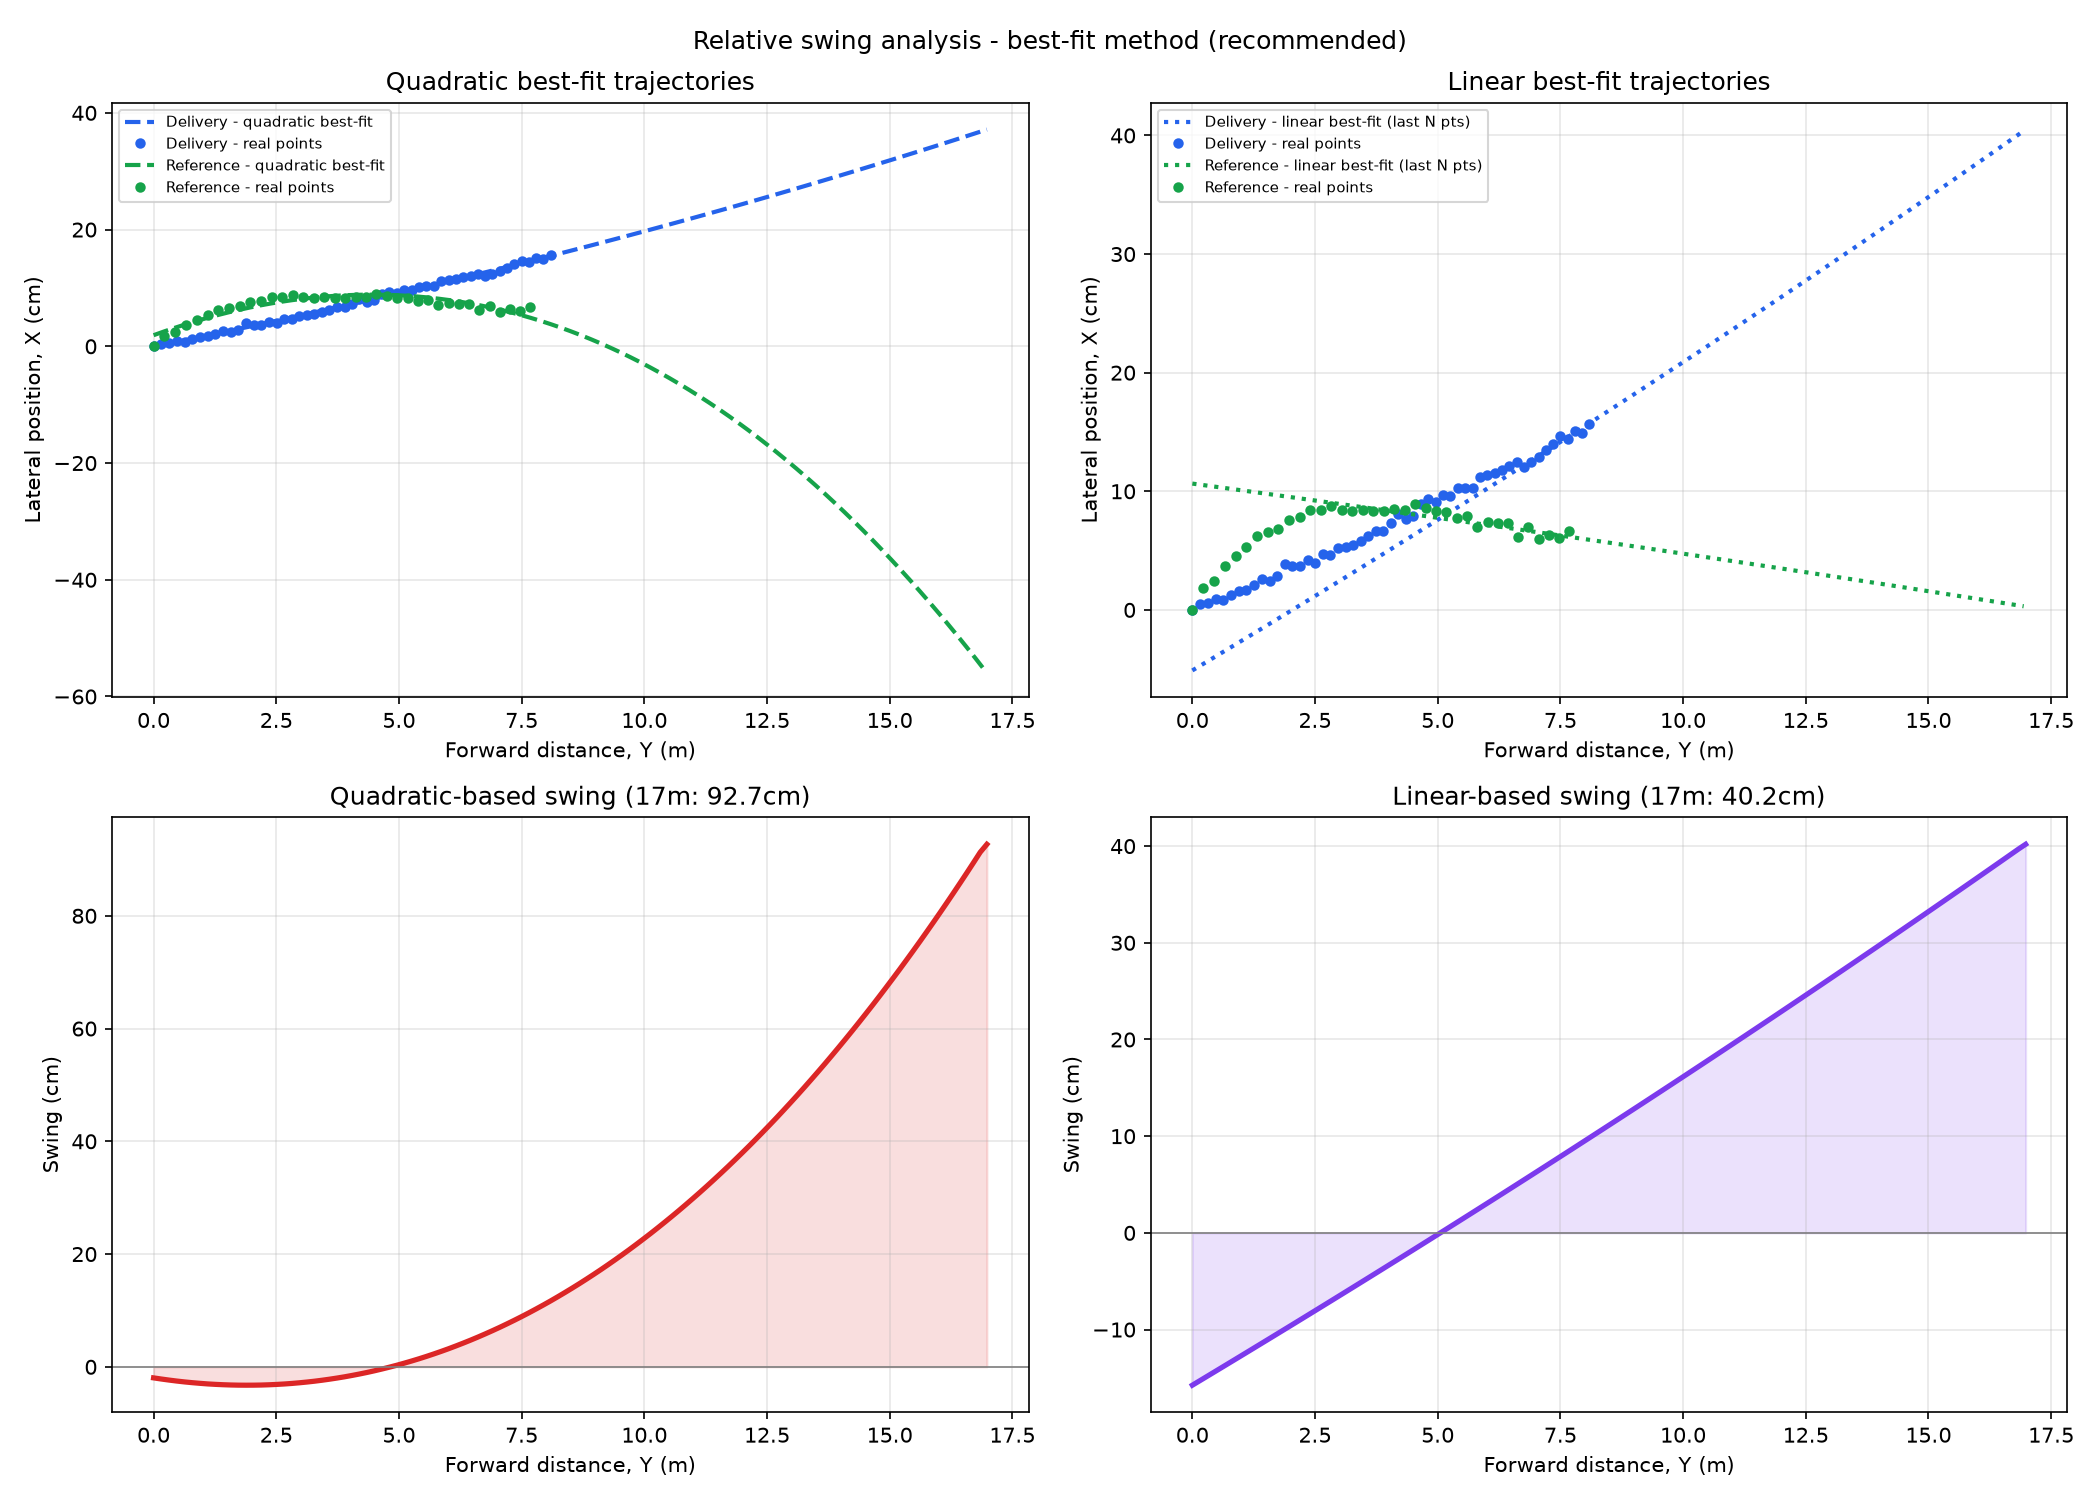
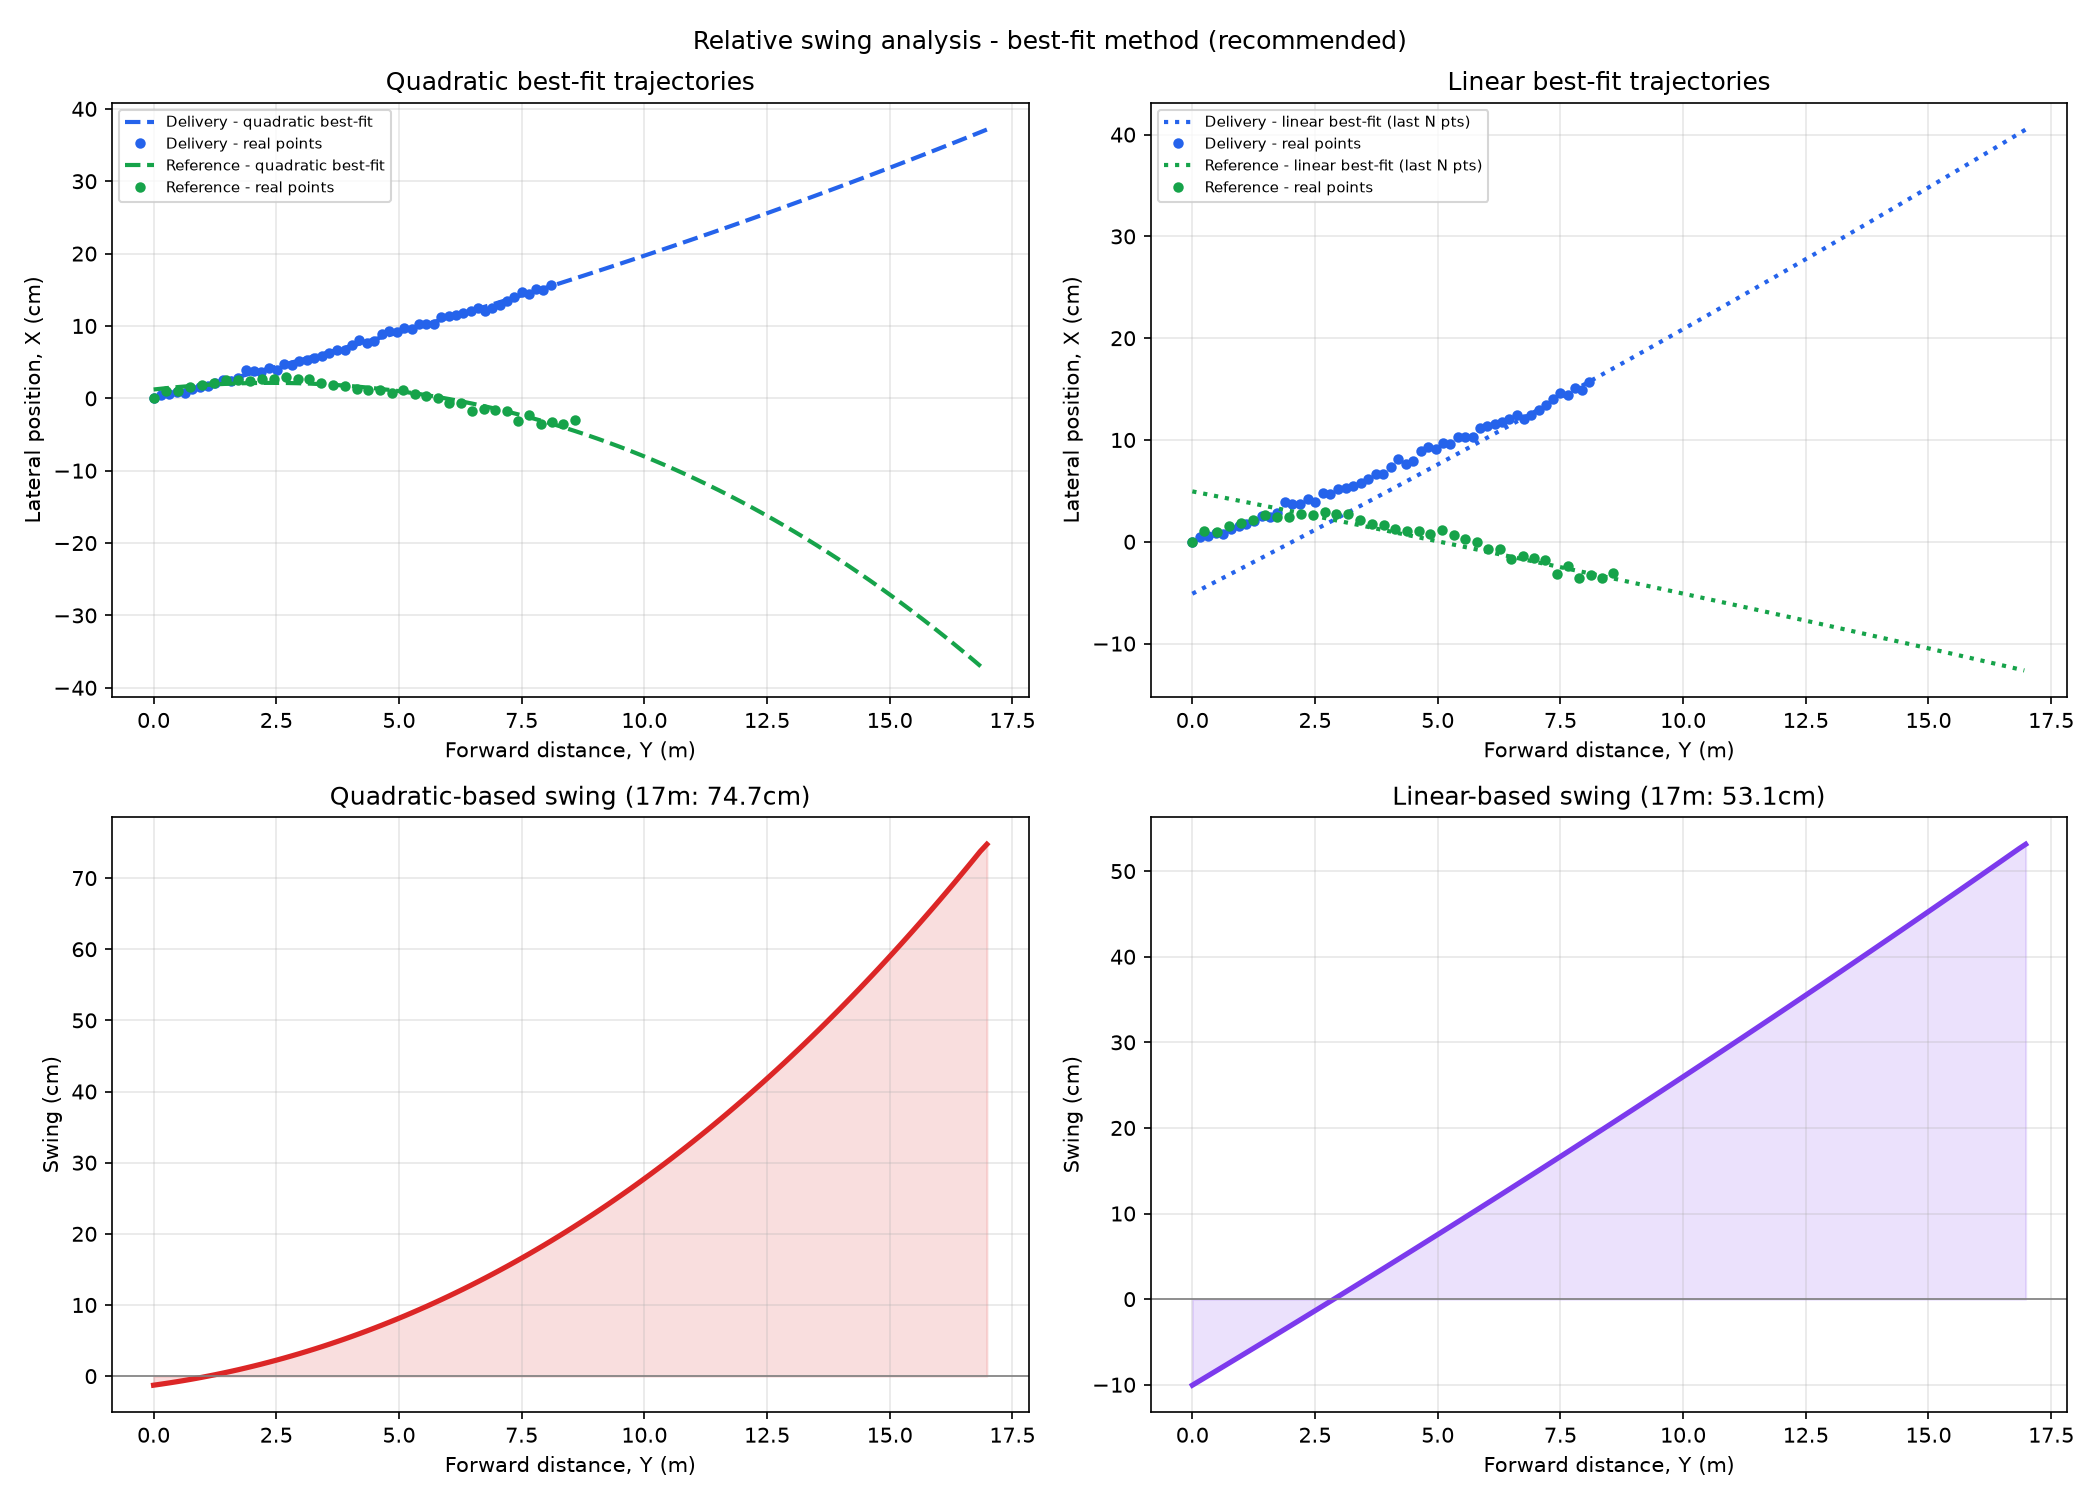
add custom starting frames

diff --git a/display.py b/display.py
@@ -21,7 +21,17 @@ class Display:
             raise ValueError("No top down view video path provided.")
 
         rel_path = os.path.relpath(abs_path, os.path.dirname(__file__))
-        return Video(rel_path)
+
+        start_frame_str = input("Enter the starting frame number for the main video (default 0): ")
+        if start_frame_str.strip() == "":
+            start_frame = 0
+        else:
+            start_frame = int(start_frame_str)
+
+        video = Video(rel_path)
+        video.current_frame = start_frame
+
+        return video
 
     def load_side_video(self) -> Video:
         print("Please select the side view video file (side view).")
@@ -39,4 +49,14 @@ class Display:
             raise ValueError("No side on view video path provided.")
 
         rel_path = os.path.relpath(abs_path, os.path.dirname(__file__))
-        return Video(rel_path)
+
+        start_frame_str = input("Enter the starting frame number for the side video (default 0): ")
+        if start_frame_str.strip() == "":
+            start_frame = 0
+        else:
+            start_frame = int(start_frame_str)
+
+        video = Video(rel_path)
+        video.current_frame = start_frame
+
+        return video

diff --git a/cricket_ball_tracker.py b/cricket_ball_tracker.py
@@ -163,7 +163,7 @@ class CricketBallTracker:
                     self.first_frame_main = self.top_down_video.get_current_frame_number()
                     print(f"Main view Frame 1 set to raw frame {self.first_frame_main}")
                 self._add_or_replace_point_for_frame(self.top_down_video.get_current_frame_number(), x, y, timestamp, is_side=False)
-                print(f"Main View - Frame {self.top_down_video.get_current_frame_number()}: Ball at (x={x}, y={y}) - Time: {timestamp:.3f}s")
+                print(f"Main View - Frame {self.top_down_video.get_current_frame_number()}: Ball at (x={x}, y={y}) - Time: {timestamp:.5f}s")
             elif self.seam_angle_active and self.meters_per_pixel is not None:
                 self.seam_points.append((x, y))
                 print(f"Seam point added: ({x}, {y})")

diff --git a/physics_engine.py b/physics_engine.py
@@ -27,7 +27,7 @@ LATERAL_DRAG_COEFFICIENT = 24.377
 # relative swing on future deliveries.
 # ---------------------------------------------------------------------------
 REFERENCE_FPS = 119.88
-REFERENCE_INITIAL_SPEED_KMH = 95.32
+REFERENCE_INITIAL_SPEED_KMH = 107
 REFERENCE_DRAG_COEFFICIENT = 0.0092
 REFERENCE_CALIBRATION_PATH = "reference_swingless_calibration.npz"
 
